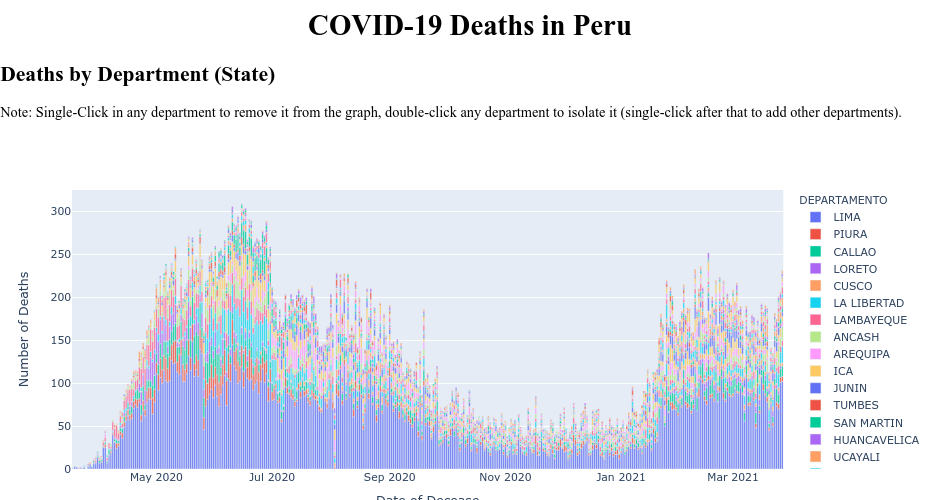
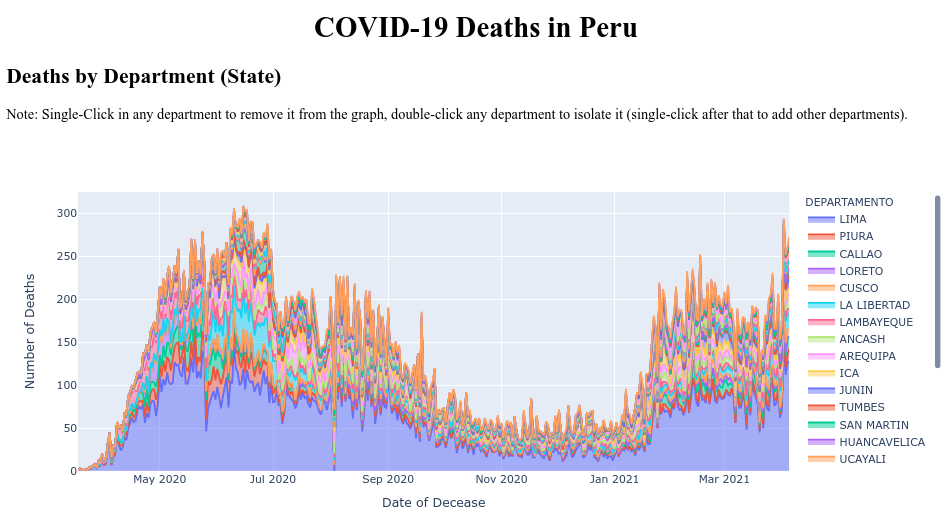
Updated 07-04-2021

diff --git a/covid_deaths.py b/covid_deaths.py
@@ -24,7 +24,7 @@ app.layout = html.Div([
         html.P('Note: Single-Click in any department to remove it from the graph, double-click any department to isolate it (single-click after that to add other departments).'),
         dcc.Graph(
             id='deaths by department/state',
-            figure=px.bar(
+            figure=px.area(
                 deaths_by_state,
                 x='FECHA_FALLECIMIENTO',
                 y='TOTAL',
